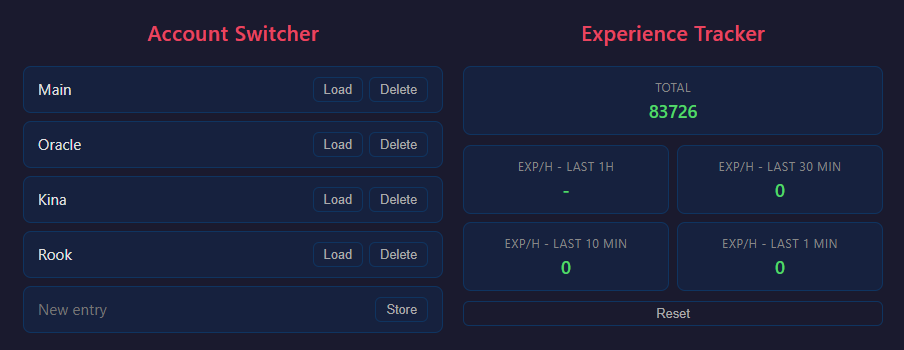
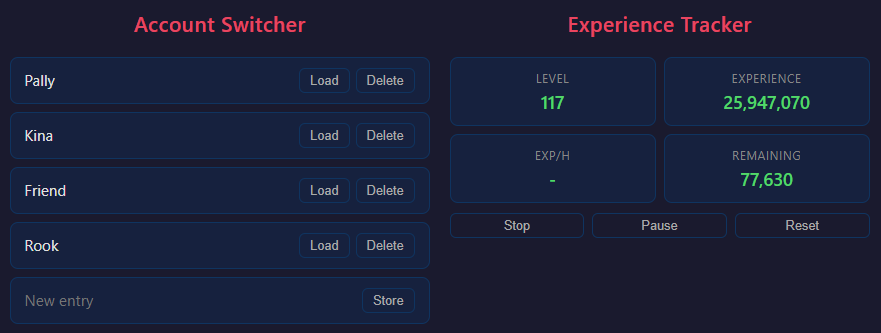
Update README.

diff --git a/README.md b/README.md
@@ -32,12 +32,16 @@ Alternatively, you're free to audit and compile the code yourself:
 ### Experience Tracker
 
 * You need to have the Skills tab open with the "Experience" line being visible.
-* If exp detection stops working, try re-focusing the Tibiantis client window (eg. by alt-tabbing into another window and back).
-* "Total" displays the current experience.
-* "Exp/h - last X" displays the experience per hour as measured over the last X.
-* "Reset" clears all historical samples.
+* "Level" and "Experience" display the current level and experience, respectively.
+* "Exp/h" displays the experience per hour since the session started.
+* "Remaining" displays the experience needed to reach the next level.
+* "Start"/"Stop": controls whether the experience tracking session is active.
+* "Pause"/"Unpause" controls whether the experience tracking session is paused; while paused, neither experience changes nor time elapsed is counted towards exp/h.
+* "Reset" resets the experience tracking session.
+* Known issues:
+  * If exp detection is not working despite an active session, try re-focusing the Tibiantis client window (eg. by alt-tabbing into another window and back).
 * Technical details:
-  * TAssist takes a screenshot of a window titled "Tibiantis" every 5 seconds, searches for "Experience" on the right panel, and then runs OCR on the line.
+  * TAssist takes a screenshot of a window titled "Tibiantis" every 2 seconds, searches for "Experience" on the right panel, and then runs OCR on the line.
 
 ### Screenshots
 
